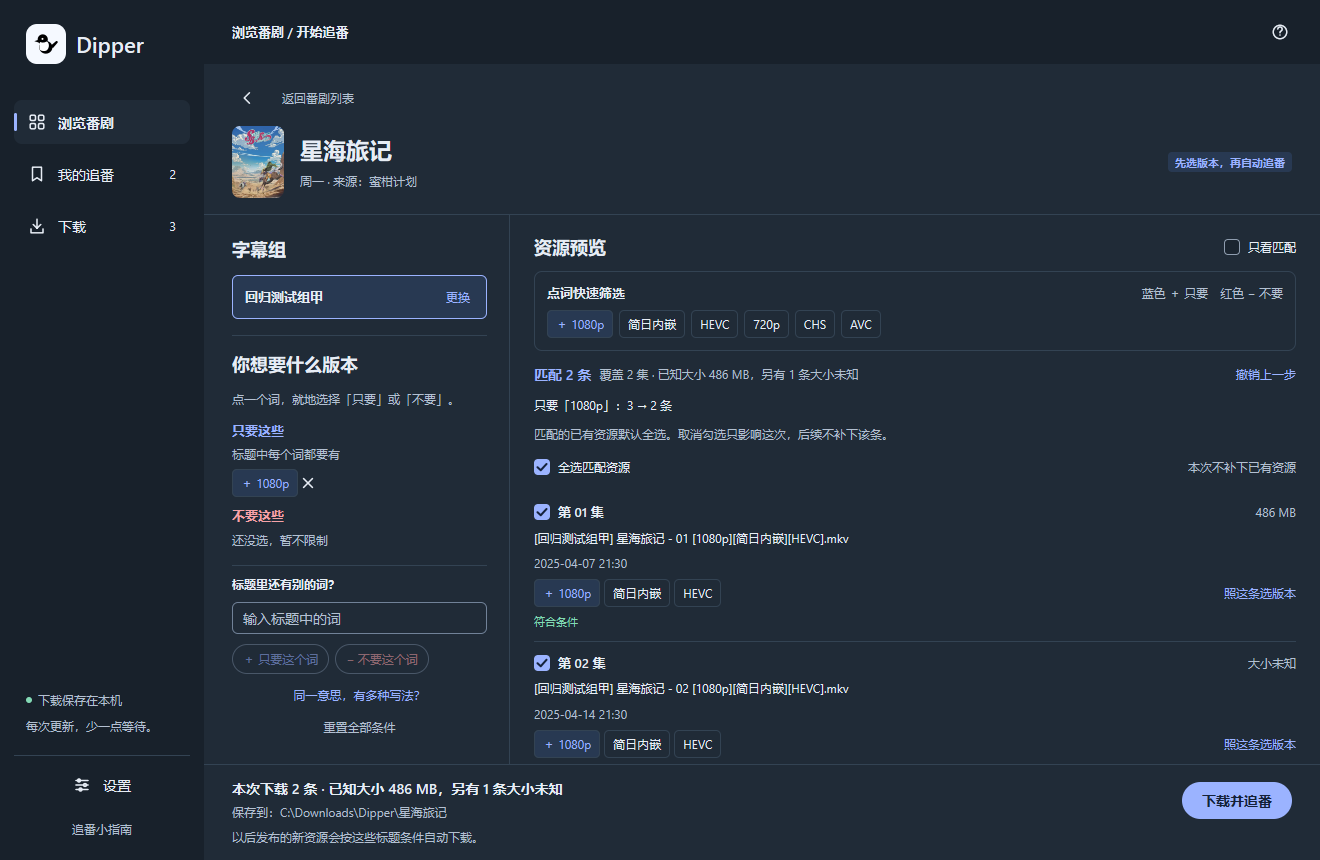
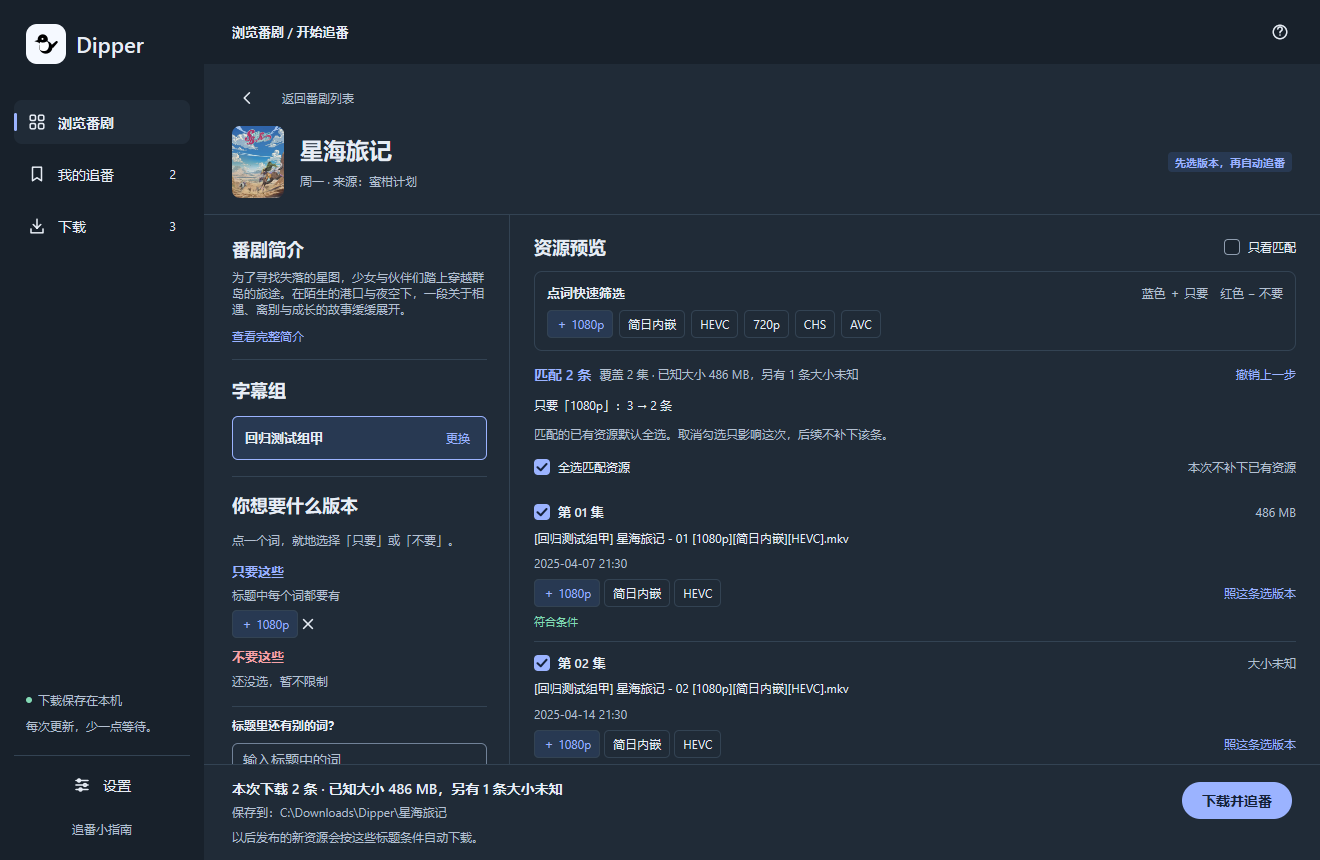
detail: read anime synopses beside resource selection (#32)
Read captured Mikan synopses and show a short detail preview with a scrollable reading dialog. Retain loaded text across catalog and core refreshes; preserve resource selection, filter drafts and scrolling.

Verified canonical build with the complete test suite, vet and Linux/macOS cross-compiles; targeted race tests; clean formatting; visually inspected light/dark fixture renders; isolated Windows startup and shutdown (exit 0). Redcheck separately confirmed assertion failures for the old parser, dropped UI projection, catalog/core retention and cross-anime dialog reset.

All PR checks passed: Windows, macOS, Ubuntu and the full race detector. Native mouse/keyboard acceptance was unavailable because desktop-control tools could not connect; fixture screenshots are offline evidence.

Changed region(s): [[0.1553, 0.2721, 0.3727, 0.907]]

diff --git a/cmd/dipper/anime_summary_test.go b/cmd/dipper/anime_summary_test.go
@@ -1,0 +1,98 @@
+package main
+
+import (
+	"fmt"
+	"maps"
+	"reflect"
+	"strings"
+	"testing"
+
+	"dipper.local/dipper/internal/core"
+	"dipper.local/dipper/internal/source"
+	"github.com/egoist/mygo/ui"
+)
+
+func TestUIAnimeSummaryReadingPreservesDraft(t *testing.T) {
+	for _, appearance := range []string{appearanceLight, appearanceDark} {
+		for _, size := range [][2]int{{1120, 760}, {1320, 860}} {
+			t.Run(fmt.Sprintf("%s/%dx%d", appearance, size[0], size[1]), func(t *testing.T) {
+				state := uiFixture(t, "detail")
+				state.Appearance = appearance
+				state.setWord("1080p", wordWant)
+				anime := state.KnownAnime[state.AnimeID]
+				anime.Summary = strings.Repeat(anime.Summary, 30) + "故事仍在继续。"
+				state.KnownAnime[state.AnimeID] = anime
+				state.ResourceScroll.Y = 80
+				tester := ui.NewTester(state.view, size[0], size[1])
+				checked := maps.Clone(state.Checked)
+				rule := cloneRule(state.Rule)
+				scroll := state.ResourceScroll
+				if scroll.Y <= 0 {
+					t.Fatal("reading test must start with a scrolled release list")
+				}
+				uiRequireText(t, tester, "番剧简介", anime.Summary)
+				uiClick(t, tester, "查看完整简介")
+				if !state.SummaryOpen {
+					t.Fatal("reading action did not open the synopsis")
+				}
+				uiRequireText(t, tester, "简介来自蜜柑计划", anime.Summary)
+				footer, ok := tester.Find("简介来自蜜柑计划")
+				if !ok || footer.Y < 0 || footer.Y+footer.H > float32(size[1]) {
+					t.Fatal("long synopsis pushed the reading controls outside the window")
+				}
+				uiClick(t, tester, "关闭简介")
+				if state.SummaryOpen || !reflect.DeepEqual(state.Checked, checked) || !reflect.DeepEqual(state.Rule, rule) || !reflect.DeepEqual(state.ResourceScroll, scroll) {
+					t.Fatal("reading the synopsis changed the release selection, filter or scroll position")
+				}
+				state.SummaryOpen = true
+				state.openAnime(state.Catalog[1].ID)
+				if state.SummaryOpen {
+					t.Fatal("opening another anime retained the previous reading dialog")
+				}
+			})
+		}
+	}
+}
+
+func TestUIAnimeSummaryAvailability(t *testing.T) {
+	for _, scenario := range []struct {
+		name, summary, failure, want string
+		loading                      bool
+	}{
+		{name: "missing", want: "来源暂未提供简介。"},
+		{name: "loading", loading: true, want: "正在加载简介…"},
+		{name: "failed", failure: "网络中断", want: "简介暂时无法加载，可重试下方的详情。"},
+		{name: "cached while loading", summary: "已经加载的简介", loading: true, want: "已经加载的简介"},
+		{name: "cached after failure", summary: "已经加载的简介", failure: "网络中断", want: "已经加载的简介"},
+	} {
+		t.Run(scenario.name, func(t *testing.T) {
+			state := uiFixture(t, "detail")
+			anime := state.KnownAnime[state.AnimeID]
+			anime.Summary = scenario.summary
+			state.KnownAnime[state.AnimeID] = anime
+			state.DetailLoading, state.DetailError = scenario.loading, scenario.failure
+			tester := ui.NewTester(state.view, 1120, 760)
+			uiRequireText(t, tester, scenario.want)
+			if tester.HasText("查看完整简介") != (scenario.summary != "") {
+				t.Fatal("reading action does not match synopsis availability")
+			}
+		})
+	}
+}
+
+func TestAnimeSummarySurvivesSourceProjection(t *testing.T) {
+	anime := fromAnime(source.Anime{ID: "227", Title: "名侦探柯南", Summary: "主角工藤新一原本是一位高中生侦探。"})
+	state := uiFixture(t, "detail")
+	state.AnimeID = anime.ID
+	state.KnownAnime[anime.ID] = anime
+	tester := ui.NewTester(state.view, 1120, 760)
+	uiRequireText(t, tester, "主角工藤新一原本是一位高中生侦探。", "查看完整简介")
+}
+
+func TestCoreRefreshRetainsLoadedAnimeSummary(t *testing.T) {
+	state := uiFixture(t, "detail")
+	anime := state.anime(state.AnimeID)
+	state.project(core.State{Anime: []core.AnimeRecord{{Anime: core.Anime{ID: anime.ID, Title: "来源更新后的标题", Cover: anime.Cover}}}}, nil)
+	tester := ui.NewTester(state.view, 1120, 760)
+	uiRequireText(t, tester, "来源更新后的标题", anime.Summary, "查看完整简介")
+}

diff --git a/cmd/dipper/anime_summary_source_test.go b/cmd/dipper/anime_summary_source_test.go
@@ -1,0 +1,67 @@
+package main
+
+import (
+	"context"
+	"html"
+	"net/http"
+	"net/http/httptest"
+	"os"
+	"path/filepath"
+	"regexp"
+	"testing"
+	"time"
+
+	"dipper.local/dipper/internal/source"
+)
+
+func TestCatalogRefreshRetainsLoadedAnimeSummary(t *testing.T) {
+	state := uiFixture(t, "browse")
+	state.Subscriptions = nil
+	body, err := os.ReadFile(filepath.Join("..", "..", "internal", "source", "testdata", "catalog-source.html"))
+	if err != nil {
+		t.Fatal(err)
+	}
+	server := httptest.NewServer(http.HandlerFunc(func(writer http.ResponseWriter, request *http.Request) {
+		if request.URL.Path != "/Home/BangumiCoverFlowByDayOfWeek" {
+			t.Errorf("unexpected request: %s", request.URL)
+			http.NotFound(writer, request)
+			return
+		}
+		writer.Write(body)
+	}))
+	defer server.Close()
+	var coverURLs []string
+	for _, match := range regexp.MustCompile(`data-src="([^"]+)"`).FindAllStringSubmatch(string(body), -1) {
+		coverURLs = append(coverURLs, server.URL+html.UnescapeString(match[1]))
+	}
+	coversMu.Lock()
+	for _, coverURL := range coverURLs {
+		covers[coverURL] = covers["3887.jpg"]
+	}
+	coversMu.Unlock()
+	t.Cleanup(func() {
+		coversMu.Lock()
+		defer coversMu.Unlock()
+		for _, coverURL := range coverURLs {
+			delete(covers, coverURL)
+		}
+	})
+	state.Ctx, state.Source = context.Background(), source.New(server.URL)
+	state.Year, state.Season = "2026", "秋"
+	state.KnownAnime["4031"] = Anime{ID: "4031", Title: "旧标题", Summary: "已经读过的番剧简介。"}
+	updates := make(chan func(), 1)
+	state.Update = func(update func()) { updates <- update }
+	state.refreshCatalog()
+	select {
+	case update := <-updates:
+		update()
+	case <-time.After(5 * time.Second):
+		t.Fatal("catalog refresh did not report a result")
+	}
+	if state.SourceError != "" || state.SourceLoading {
+		t.Fatalf("catalog did not load: %q", state.SourceError)
+	}
+	if anime := state.anime("4031"); anime.Title != "天是红河岸" || anime.Summary != "已经读过的番剧简介。" {
+		t.Fatalf("catalog refresh lost the loaded synopsis or retained stale catalog data: %+v", anime)
+	}
+}

diff --git a/cmd/dipper/anime_summary.go b/cmd/dipper/anime_summary.go
@@ -1,0 +1,36 @@
+package main
+
+import "github.com/egoist/mygo/ui"
+
+func (s *State) animeSummary(c *ui.Context, anime Anime) {
+	ui.Column(c).Gap(8).Children(func() {
+		heading(c, "番剧简介")
+		switch {
+		case anime.Summary != "":
+			ui.Text(c, anime.Summary).FontSize(12).TextColor(colors(c).muted).MaxLines(4)
+			quiet(c, "read-summary", "查看完整简介", func() { s.SummaryOpen = true }).FontSize(12).TextColor(colors(c).blue).Padding(3, 0).AlignSelf(ui.Start)
+		case s.DetailLoading:
+			caption(c, "正在加载简介…")
+		case s.DetailError != "":
+			caption(c, "简介暂时无法加载，可重试下方的详情。")
+		default:
+			caption(c, "来源暂未提供简介。")
+		}
+		ui.Divider(c).Background(colors(c).line).Margin(4, 0)
+	})
+}
+
+func (s *State) summaryDialog(c *ui.Context) {
+	ui.DialogBase(c, &s.SummaryOpen, func(backdrop, panel ui.Element) {
+		backdrop.Background(colors(c).scrim).Transition(fadeTransition)
+		panel.Width(560).MaxHeight(560).Padding(24).Gap(16).Radius(12).Background(colors(c).paper)
+		ui.Row(c).Gap(12).Children(func() {
+			ui.Text(c, s.anime(s.AnimeID).Title).FontSize(21).FontWeight(700).Grow(1).MaxLines(2)
+			iconButton(c, "close-summary", "关闭简介", "close", func() { s.SummaryOpen = false })
+		})
+		ui.Scroll(c.Key("summary-text")).MaxHeight(380).MinHeight(0).Children(func() {
+			ui.Text(c, s.anime(s.AnimeID).Summary).FontSize(14).TextColor(colors(c).ink)
+		})
+		caption(c, "简介来自蜜柑计划")
+	})
+}

diff --git a/internal/source/summary_test.go b/internal/source/summary_test.go
@@ -1,0 +1,34 @@
+package source
+
+import (
+	"net/http"
+	"strings"
+	"testing"
+)
+
+func TestDetailSummaryFromCapturedPages(t *testing.T) {
+	for _, animeID := range []string{"227", "4063"} {
+		t.Run(animeID, func(t *testing.T) {
+			body := fixture(t, "bangumi-"+animeID+".html")
+			client := testClient(t, func(writer http.ResponseWriter, request *http.Request) {
+				if request.URL.Path != "/Home/Bangumi/"+animeID {
+					t.Errorf("unexpected detail request: %s", request.URL)
+				}
+				writer.Write(body)
+			})
+			detail, err := client.Detail(t.Context(), animeID)
+			if err != nil {
+				t.Fatal(err)
+			}
+			if animeID == "227" && (!strings.HasPrefix(detail.Anime.Summary, "主角工藤新一") || !strings.HasSuffix(detail.Anime.Summary, "等情节。")) {
+				t.Fatalf("captured anime synopsis was lost or replaced by release text: %q", detail.Anime.Summary)
+			}
+			if animeID == "4063" && detail.Anime.Summary != "" {
+				t.Fatalf("a page without an anime synopsis borrowed release text: %q", detail.Anime.Summary)
+			}
+			if len(detail.Groups) == 0 {
+				t.Fatal("optional synopsis prevented subtitle group loading")
+			}
+		})
+	}
+}

diff --git a/cmd/dipper/ui_render.go b/cmd/dipper/ui_render.go
@@ -17,7 +17,7 @@ func uiRenderFixture() *State {
 	s.Root = `C:\Downloads\Dipper`
 	s.ProxyAuto = "跟随系统代理：http://127.0.0.1:7897"
 	s.Catalog = []Anime{
-		{ID: "render-1", Title: "星海旅记", Day: 1, Cover: "3887.jpg"},
+		{ID: "render-1", Title: "星海旅记", Day: 1, Cover: "3887.jpg", Summary: "为了寻找失落的星图，少女与伙伴们踏上穿越群岛的旅途。在陌生的港口与夜空下，一段关于相遇、离别与成长的故事缓缓展开。"},
 		{ID: "render-2", Title: "雨后的星期天", Day: 0, Cover: "3984.jpg"},
 		{ID: "render-3", Title: "向着下一站", Day: 3, Cover: "4031.jpg"},
 		{ID: "render-4", Title: "花与远方", Day: 5, Cover: "4056.jpg"},
@@ -76,6 +76,7 @@ func renderScreens(dir string) error {
 			s.TrayAvailable = true
 			s.ClosePrompt = true
 		}},
+		{name: "09-anime-summary", page: "detail", configure: func(s *State) { s.SummaryOpen = true }},
 	} {
 		for _, appearance := range []string{appearanceLight, appearanceDark} {
 			s := uiRenderFixture()

diff --git a/cmd/dipper/view.go b/cmd/dipper/view.go
@@ -168,8 +168,9 @@ func (s *State) view(c *ui.Context) {
 	s.cancelDialog(c)
 	s.removeDialog(c)
 	s.helpDialog(c)
+	s.summaryDialog(c)
 	s.closeDialog(c)
-	if s.Page == "detail" && !s.Confirm && !s.Help && !s.ClosePrompt {
+	if s.Page == "detail" && !s.Confirm && !s.Help && !s.SummaryOpen && !s.ClosePrompt {
 		c.OnShortcut(ui.Ctrl, ui.KeyZ, s.undoFilter)
 		c.OnShortcut(ui.Ctrl, ui.KeyY, s.redoFilter)
 		c.OnShortcut(ui.Ctrl|ui.Shift, ui.KeyZ, s.redoFilter)
@@ -425,6 +426,7 @@ func (s *State) detail(c *ui.Context) {
 		ui.Row(c).Grow(1).MinHeight(0).Gap(0).Children(func() {
 			ui.Scroll(c.Key("detail-options")).Width(306).FillHeight().Padding(22, 22, 24, 28).BorderWidth(0, 1, 0, 0).BorderColor(colors(c).line).Children(func() {
 				ui.Column(c).Gap(14).Children(func() {
+					s.animeSummary(c, a)
 					heading(c, "字幕组")
 					if s.DetailLoading {
 						caption(c, "正在加载字幕组…")

diff --git a/cmd/dipper/source_ui.go b/cmd/dipper/source_ui.go
@@ -87,7 +87,7 @@ func fromAnime(a source.Anime) Anime {
 	if n, err := strconv.Atoi(a.Day); err == nil {
 		day = n
 	}
-	return Anime{ID: a.ID, Title: a.Title, Cover: a.Cover, Day: day, Source: "蜜柑计划"}
+	return Anime{ID: a.ID, Title: a.Title, Cover: a.Cover, Day: day, Source: "蜜柑计划", Summary: a.Summary}
 }
 
 func (s *State) refreshCatalog() {
@@ -126,6 +126,7 @@ func (s *State) refreshCatalog() {
 			}
 			for _, a := range rows {
 				v := fromAnime(a)
+				v.Summary = s.KnownAnime[a.ID].Summary
 				s.Catalog = append(s.Catalog, v)
 				s.KnownAnime[a.ID] = v
 			}
@@ -199,6 +200,7 @@ func (s *State) openAnime(id string) {
 	s.History = nil
 	s.ResourceList = nil
 	s.ChoosingGroup = false
+	s.SummaryOpen = false
 	s.Rule = Rule{}
 	s.Checked = map[string]bool{}
 	s.EditID = ""

diff --git a/cmd/dipper/model.go b/cmd/dipper/model.go
@@ -15,11 +15,12 @@ import (
 )
 
 type Anime struct {
-	ID     string `json:"id"`
-	Title  string `json:"title"`
-	Day    int    `json:"day"`
-	Cover  string `json:"cover"`
-	Source string `json:"source"`
+	ID      string `json:"id"`
+	Title   string `json:"title"`
+	Day     int    `json:"day"`
+	Cover   string `json:"cover"`
+	Source  string `json:"source"`
+	Summary string `json:"summary,omitempty"`
 }
 type Rule struct {
 	All  []string   `json:"all,omitempty"`
@@ -113,6 +114,7 @@ type State struct {
 	AnimeID                    string
 	Group                      int
 	ChoosingGroup              bool
+	SummaryOpen                bool
 	Rule                       Rule
 	Checked                    map[string]bool
 	Editing                    bool

diff --git a/internal/source/html.go b/internal/source/html.go
@@ -156,7 +156,7 @@ func (c *Client) Detail(ctx context.Context, animeID string) (Detail, error) {
 		return Detail{}, err
 	}
 	result := Detail{Anime: Anime{ID: animeID, Title: clean(title.Text()), Cover: cover,
-		Summary: clean(doc.Find(".bangumi-summary, .bangumi-description").First().Text())}, Groups: make([]Group, 0)}
+		Summary: clean(doc.Find(".central-container > .header2-desc, .bangumi-summary, .bangumi-description").First().Text())}, Groups: make([]Group, 0)}
 	doc.Find(".bangumi-info").Each(func(_ int, info *goquery.Selection) {
 		if text := clean(info.Text()); strings.HasPrefix(text, "放送日期：") {
 			result.Anime.Day = weekday(strings.TrimSpace(strings.TrimPrefix(text, "放送日期：")))

diff --git a/cmd/dipper/core_ui.go b/cmd/dipper/core_ui.go
@@ -214,7 +214,7 @@ func (s *State) project(state core.State, snapshots []downloader.Snapshot) {
 		if n, err := strconv.Atoi(a.Day); err == nil {
 			day = n
 		}
-		s.KnownAnime[a.ID] = Anime{ID: a.ID, Title: a.Title, Cover: a.Cover, Day: day, Source: "蜜柑计划"}
+		s.KnownAnime[a.ID] = Anime{ID: a.ID, Title: a.Title, Cover: a.Cover, Day: day, Source: "蜜柑计划", Summary: s.KnownAnime[a.ID].Summary}
 	}
 	s.Subscriptions = nil
 	for _, sub := range state.Subscriptions {

diff --git a/internal/source/source_test.go b/internal/source/source_test.go
@@ -127,7 +127,7 @@ func TestDetailRealSamples(t *testing.T) {
 			if err != nil {
 				t.Fatal(err)
 			}
-			if detail.Anime.ID != id || detail.Anime.Title == "" || detail.Anime.Summary != "" {
+			if detail.Anime.ID != id || detail.Anime.Title == "" {
 				t.Fatalf("unexpected anime: %+v", detail.Anime)
 			}
 			found := false

diff --git a/docs/subsystems/gui.md b/docs/subsystems/gui.md
@@ -81,6 +81,13 @@ The detail page runs in one of two modes, distinguished by `Backfill`:
 - **Backfill** — pick releases from an existing subscription's history to
   download now, without changing the rule.
 
+Above the subtitle groups, a four-line synopsis preview opens a scrollable
+reading dialog. Opening or closing it preserves resource selection, filter
+drafts and scroll position. Loading, unavailable and missing descriptions have
+distinct copy. Catalog and core state refreshes retain a loaded synopsis, while a
+successful detail response is authoritative. Opening another anime closes the
+reading dialog. `anime_summary_test.go` checks the rendering and interaction.
+
 The two modes share the resource list but not the confirm action. Keeping them
 distinct is what makes "I cancelled this one release" not change what future
 releases are matched against.
